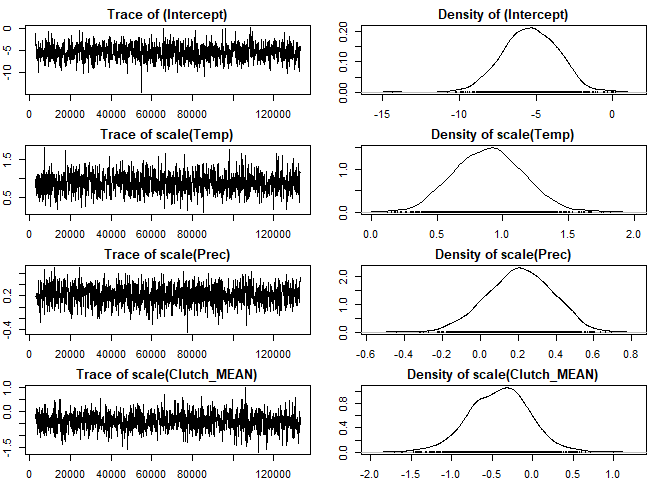
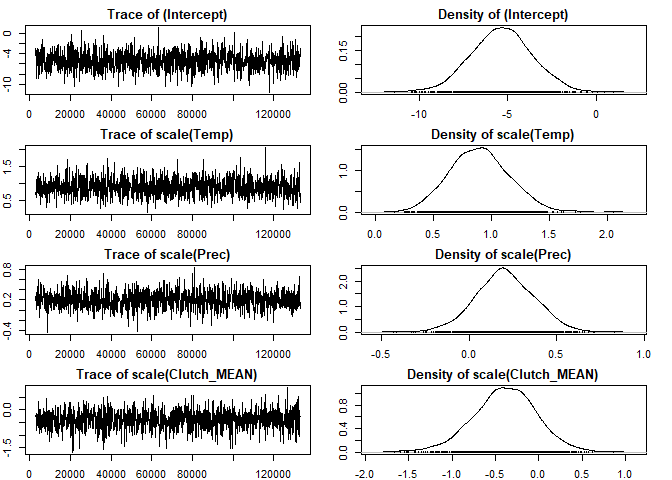
Update report

diff --git a/model2host_model_report.md b/model2host_model_report.md
@@ -48,7 +48,19 @@ pathogen[12]
     ## [1] "Salmonella"
 
 The model:
-`model = MCMCglmm(cbind(Npositive,Ntested-Npositive) ~ scale(Temp)+scale(Prec)+                    scale(Clutch_MEAN)+scale(Maximum.longevity)+                    scale(Mass)+Migration+Habitat,                   random=~animal,                   pedigree = phy,                  family =  "multinomial2",                  data=df,                  nitt=133000,                   burnin=3000,                   thin=100)`
+
+``` r
+model = MCMCglmm(cbind(Npositive,Ntested-Npositive) ~ scale(Temp)+scale(Prec)+
+                   scale(Clutch_MEAN)+scale(Maximum.longevity)+
+                   scale(Mass)+Migration+Habitat, 
+                 random=~animal, 
+                 pedigree = phy,
+                 family =  "multinomial2",
+                 data=df,
+                 nitt=133000, 
+                 burnin=3000, 
+                 thin=100)
+```
 
 ``` r
 summary(model)
@@ -59,34 +71,34 @@ summary(model)
     ##  Thinning interval  = 100
     ##  Sample size  = 1300 
     ## 
-    ##  DIC: 7145.82 
+    ##  DIC: 7145.854 
     ## 
     ##  G-structure:  ~animal
     ## 
     ##        post.mean l-95% CI u-95% CI eff.samp
-    ## animal     3.615   0.5422    7.809    299.8
+    ## animal     3.107   0.1906    6.345      353
     ## 
     ##  R-structure:  ~units
     ## 
     ##       post.mean l-95% CI u-95% CI eff.samp
-    ## units     2.785    1.777    4.096     1300
+    ## units     2.837    1.694    4.009     1136
     ## 
     ##  Location effects: cbind(Npositive, Ntested - Npositive) ~ scale(Temp) + scale(Prec) + scale(Clutch_MEAN) + scale(Maximum.longevity) + scale(Mass) + Migration + Habitat 
     ## 
     ##                           post.mean l-95% CI u-95% CI eff.samp   pMCMC    
-    ## (Intercept)                -5.36566 -8.81602 -2.26305     1300 0.00308 ** 
-    ## scale(Temp)                 0.89353  0.43221  1.41726     1300 < 8e-04 ***
-    ## scale(Prec)                 0.20905 -0.12564  0.52075     1976 0.21846    
-    ## scale(Clutch_MEAN)         -0.41312 -1.11670  0.33288     1300 0.23231    
-    ## scale(Maximum.longevity)   -0.09220 -0.73404  0.50795     1537 0.79538    
-    ## scale(Mass)                 0.60330  0.10430  1.03104     1446 0.01385 *  
-    ## MigrationPartialMigratory   1.55723  0.17519  2.81607     1008 0.01538 *  
-    ## MigrationSedentary          1.56183  0.08332  3.05943      997 0.02769 *  
-    ## HabitatForest              -0.22546 -2.84277  2.48310     1300 0.86769    
-    ## HabitatFreshwater          -0.52682 -3.58697  2.53493     1432 0.73846    
-    ## HabitatGrassland           -0.69515 -3.25141  1.91756     1300 0.58308    
-    ## HabitatHuman Modified      -0.62629 -3.43626  2.04129     1300 0.64462    
-    ## HabitatMarine              -1.39958 -4.45430  2.04821     1300 0.39846    
+    ## (Intercept)                 -5.3532  -8.4239  -1.7519   1300.0 0.00462 ** 
+    ## scale(Temp)                  0.8982   0.3940   1.3656   1300.0 < 8e-04 ***
+    ## scale(Prec)                  0.2030  -0.1462   0.5148   1160.5 0.21077    
+    ## scale(Clutch_MEAN)          -0.3935  -1.1038   0.3402   1300.0 0.25077    
+    ## scale(Maximum.longevity)    -0.1011  -0.7719   0.5082   1300.0 0.78615    
+    ## scale(Mass)                  0.5975   0.1164   1.0364   1136.9 0.01385 *  
+    ## MigrationPartialMigratory    1.5243   0.1569   2.7929   1157.3 0.01538 *  
+    ## MigrationSedentary           1.5320   0.1011   2.9129    965.3 0.02615 *  
+    ## HabitatForest               -0.2588  -2.9297   2.4442   1300.0 0.82615    
+    ## HabitatFreshwater           -0.5233  -3.7693   2.3591   1300.0 0.72615    
+    ## HabitatGrassland            -0.7130  -3.3601   1.8777   1082.2 0.59231    
+    ## HabitatHuman Modified       -0.6695  -3.2809   2.3043   1300.0 0.60308    
+    ## HabitatMarine               -1.3539  -4.6529   1.7546   1300.0 0.38769    
     ## ---
     ## Signif. codes:  0 '***' 0.001 '**' 0.01 '*' 0.05 '.' 0.1 ' ' 1
 
@@ -116,4 +128,4 @@ Again mixed well - a little bit pattern in animal (species), OK?
 R2(model)
 ```
 
-    ## [1] 0.665
+    ## [1] 0.637
